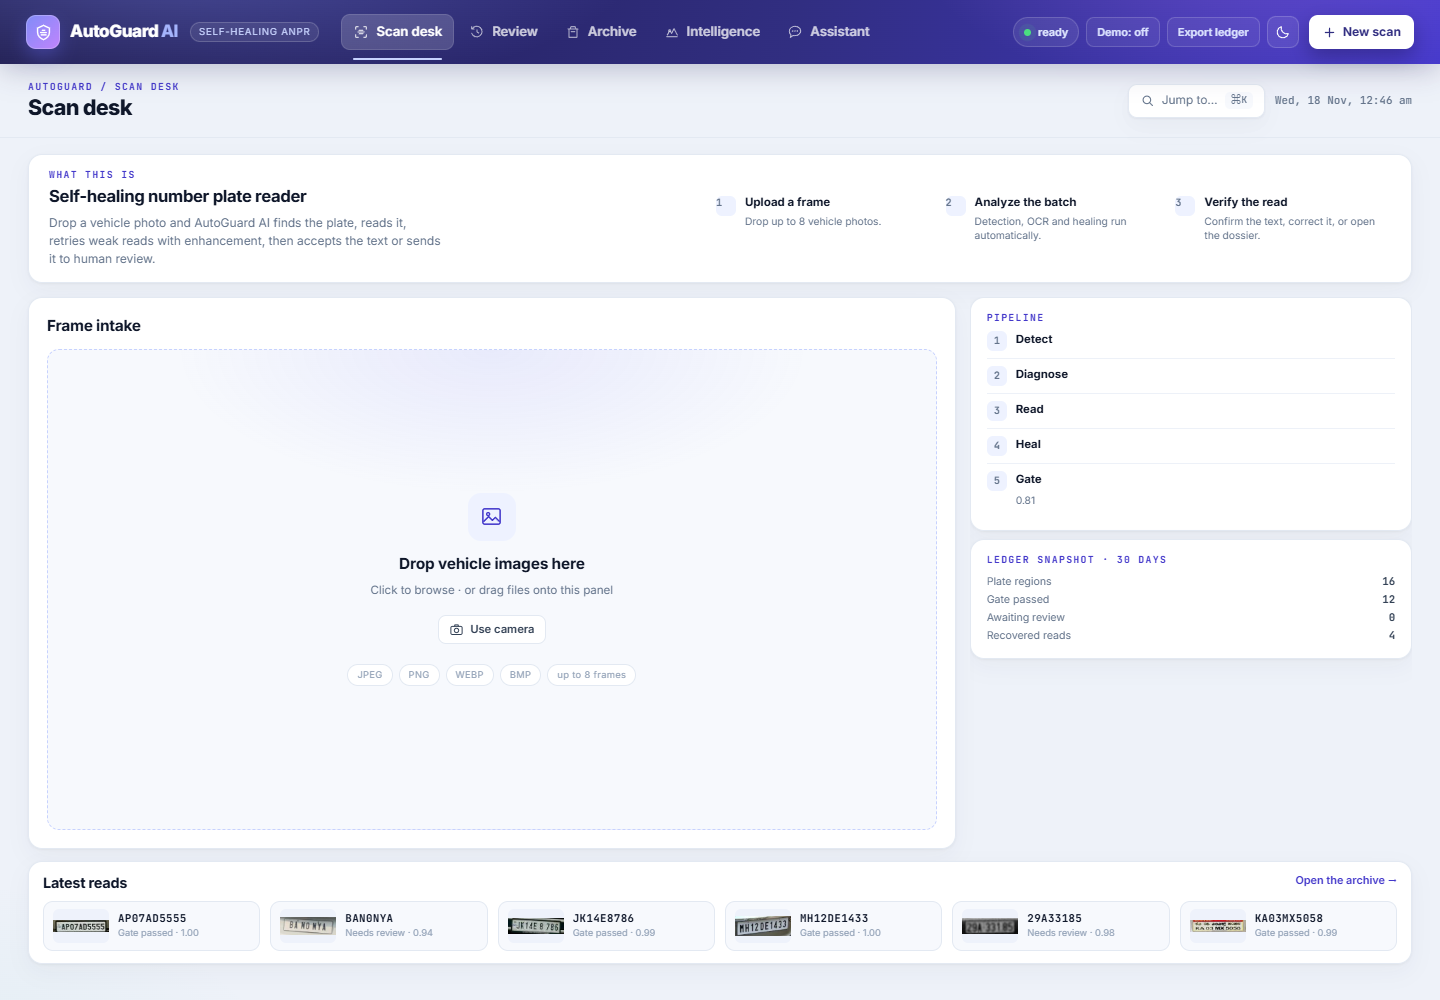
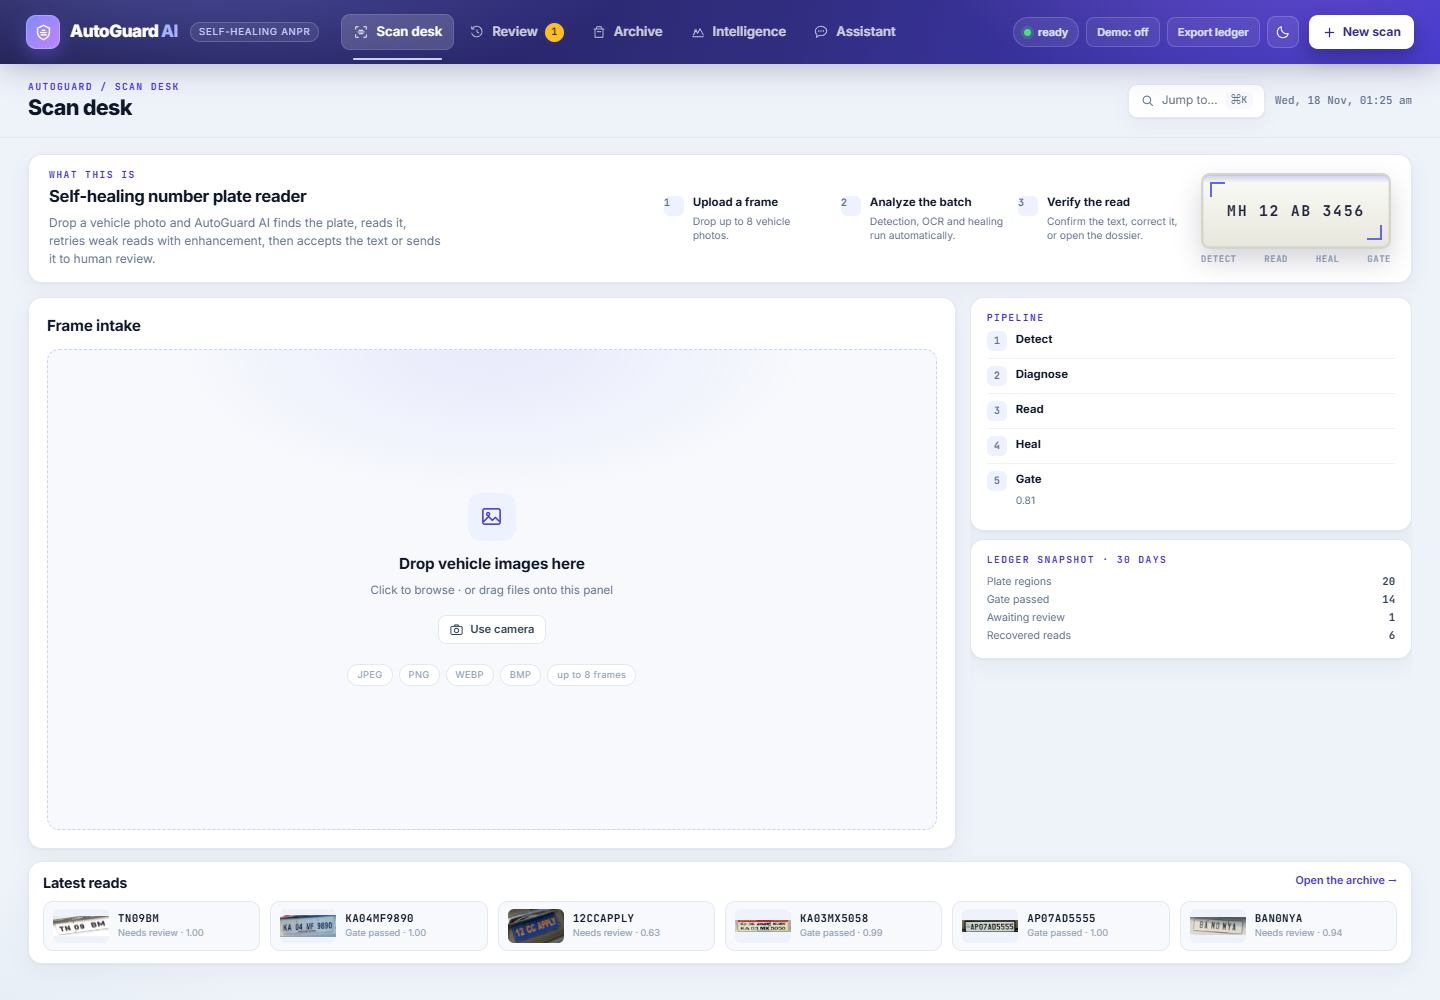
Restore animated plate scan in the scan desk intro

diff --git a/web/console.css b/web/console.css
@@ -444,8 +444,8 @@ code {
 /* ------------------------------------------------------------------ scan intro */
 .scan-intro {
   display: grid;
-  grid-template-columns: minmax(0, 1fr) minmax(0, 1.05fr);
-  gap: 24px;
+  grid-template-columns: minmax(0, 1.15fr) minmax(0, 1fr) 190px;
+  gap: 20px;
   align-items: center;
   padding: 14px 20px;
   margin-bottom: 14px;
@@ -458,6 +458,33 @@ code {
 .intro-step div { min-width: 0; }
 .intro-step strong { display: block; font-size: .72rem; }
 .intro-step span { display: block; margin-top: 2px; font-size: .64rem; color: var(--muted); line-height: 1.4; }
+
+.scan-plate-visual { justify-self: end; align-self: center; width: 190px; }
+.plate-mock {
+  position: relative;
+  aspect-ratio: 2.5 / 1;
+  border-radius: 9px;
+  background: linear-gradient(180deg, #fbfbf7, #e7e7dd);
+  border: 2px solid #d5d5c9;
+  box-shadow: 0 12px 26px rgba(23, 23, 53, .18), inset 0 0 0 1px rgba(0, 0, 0, .05);
+  display: grid;
+  place-items: center;
+  overflow: hidden;
+}
+.plate-mock span { font: 800 .92rem/1 var(--mono); letter-spacing: .12em; color: #22223c; }
+.plate-mock::before, .plate-mock::after { content: ""; position: absolute; width: 13px; height: 13px; border: 2px solid var(--brand-2); }
+.plate-mock::before { top: 7px; left: 7px; border-right: 0; border-bottom: 0; }
+.plate-mock::after { bottom: 7px; right: 7px; border-left: 0; border-top: 0; }
+.sweep {
+  position: absolute;
+  left: 0;
+  right: 0;
+  height: 38%;
+  background: linear-gradient(180deg, rgba(99, 102, 241, 0), rgba(99, 102, 241, .5), rgba(99, 102, 241, 0));
+  mix-blend-mode: multiply;
+  animation: sweep 3.4s ease-in-out infinite;
+}
+.plate-visual-caption { display: flex; justify-content: space-between; margin-top: 6px; font: 500 .56rem/1 var(--mono); letter-spacing: .06em; color: var(--muted-2); }
 
 /* ------------------------------------------------------------------ scan console */
 .scan-console { display: flex; flex-direction: column; height: 100%; }
@@ -1253,6 +1280,8 @@ code {
   .clock { display: none; }
   .brand-name { display: none; }
   .stat-tile small { display: none; }
+  .scan-intro { grid-template-columns: minmax(0, 1.1fr) minmax(0, 1fr); }
+  .scan-plate-visual { display: none; }
   .scan-grid { grid-template-columns: minmax(0, 1.5fr) minmax(260px, .9fr); }
   .plate-result { grid-template-columns: 260px minmax(0, 1fr); }
   .ledger-head, .ledger-row { grid-template-columns: minmax(140px, 1.2fr) 120px 100px minmax(100px, 1fr) 86px; }
@@ -1314,3 +1343,8 @@ code {
 @keyframes rise { from { opacity: 0; transform: translateY(6px); } to { opacity: 1; transform: none; } }
 @keyframes slide-in { from { transform: translateX(30px); opacity: .6; } to { transform: none; opacity: 1; } }
 @keyframes blink { 0%, 80%, 100% { opacity: .25; } 40% { opacity: 1; } }
+@keyframes sweep { 0%, 100% { top: -38%; } 50% { top: 100%; } }
+
+@media (prefers-reduced-motion: reduce) {
+  .sweep { animation: none; top: 42%; }
+}

diff --git a/web/app.js b/web/app.js
@@ -551,6 +551,10 @@ function scanView() {
           <div class="intro-step"><span class="how-num">2</span><div><strong>Analyze the batch</strong><span>Detection, OCR and healing run automatically.</span></div></div>
           <div class="intro-step"><span class="how-num">3</span><div><strong>Verify the read</strong><span>Confirm the text, correct it, or open the dossier.</span></div></div>
         </div>
+        <div class="scan-plate-visual" aria-hidden="true">
+          <div class="plate-mock"><span>MH 12 AB 3456</span><i class="sweep"></i></div>
+          <div class="plate-visual-caption"><span>DETECT</span><span>READ</span><span>HEAL</span><span>GATE</span></div>
+        </div>
       </section>
       <div class="scan-grid">
         <section class="panel intake-card">

diff --git a/web/index.html b/web/index.html
@@ -8,7 +8,7 @@
   <link rel="preconnect" href="https://fonts.googleapis.com">
   <link rel="preconnect" href="https://fonts.gstatic.com" crossorigin>
   <link href="https://fonts.googleapis.com/css2?family=Inter:wght@400;500;600;700;800&family=JetBrains+Mono:wght@500;700&display=swap" rel="stylesheet">
-  <link rel="stylesheet" href="/static/console.css?v=17">
+  <link rel="stylesheet" href="/static/console.css?v=18">
 </head>
 <body>
   <header class="appnav">
@@ -83,6 +83,6 @@
   <div id="drawer-root"></div>
   <div id="palette-root"></div>
   <div id="toast-root" class="toast-root" aria-live="polite"></div>
-  <script src="/static/app.js?v=console20"></script>
+  <script src="/static/app.js?v=console21"></script>
 </body>
 </html>
